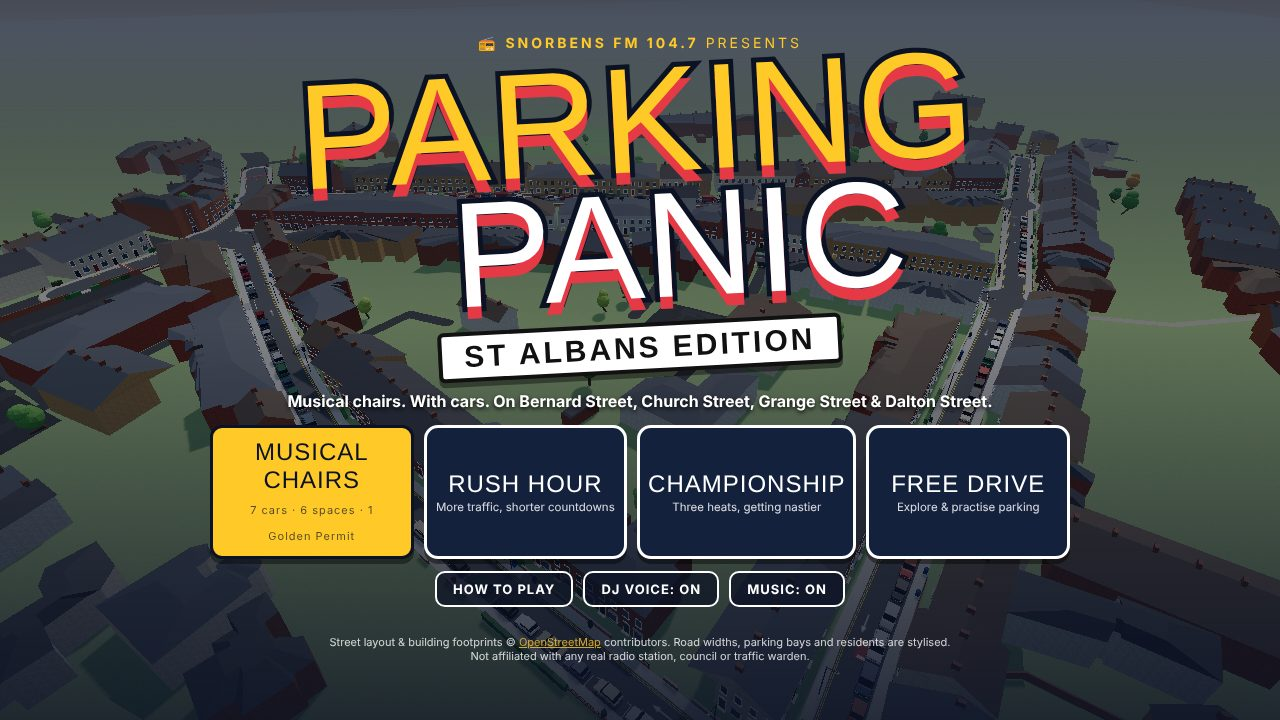
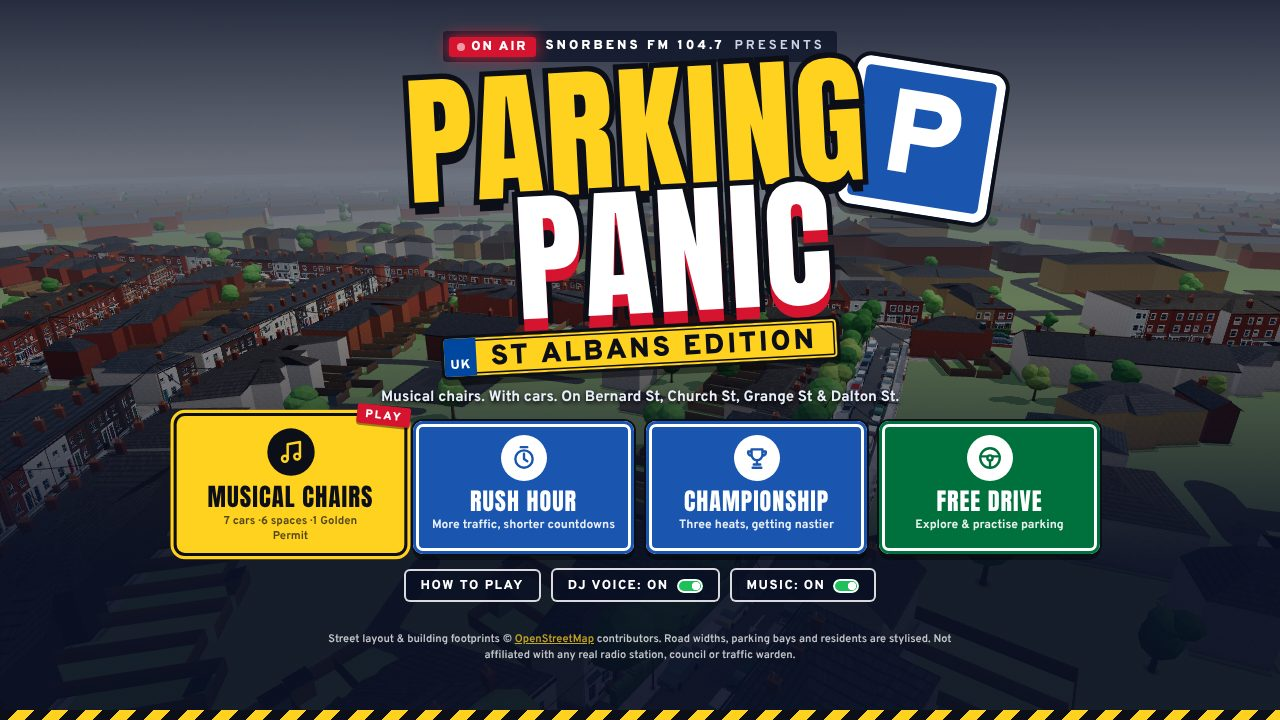
Cycle 4 complete: draw calls 127->69, refreshed README screenshots
Four improvement cycles with specialist passes and independent reviews; all tests pass.

Claude-Session: https://claude.ai/code/session_01BTq2movUSMRx4Dr5wdQ3LZ

diff --git a/README.md b/README.md
@@ -6,8 +6,8 @@ of Snorbens FM 104.7 (Hertfordshire's third-best breakfast show), who believes t
 spectacle the county has ever seen.
 
 ![Title screen](docs/title.jpg)
-![The music stops](docs/park.jpg)
-![Overhead parking camera](docs/overhead.jpg)
+![The final](docs/park.jpg)
+![Bernard Street](docs/overhead.jpg)
 
 ## Play it
 
